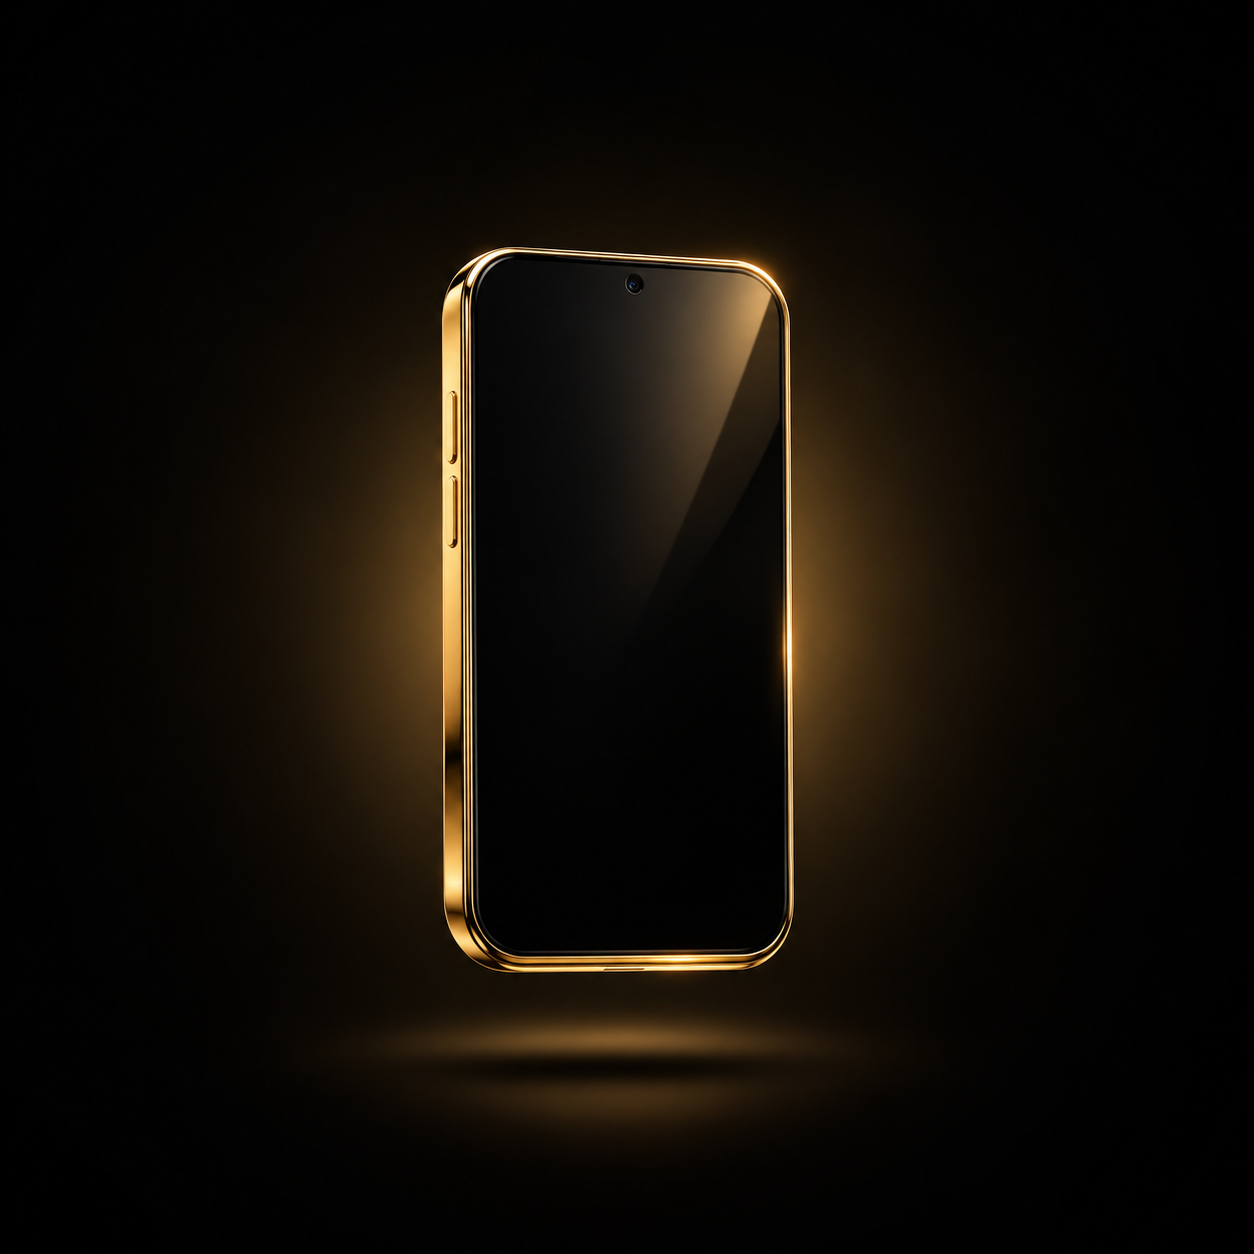
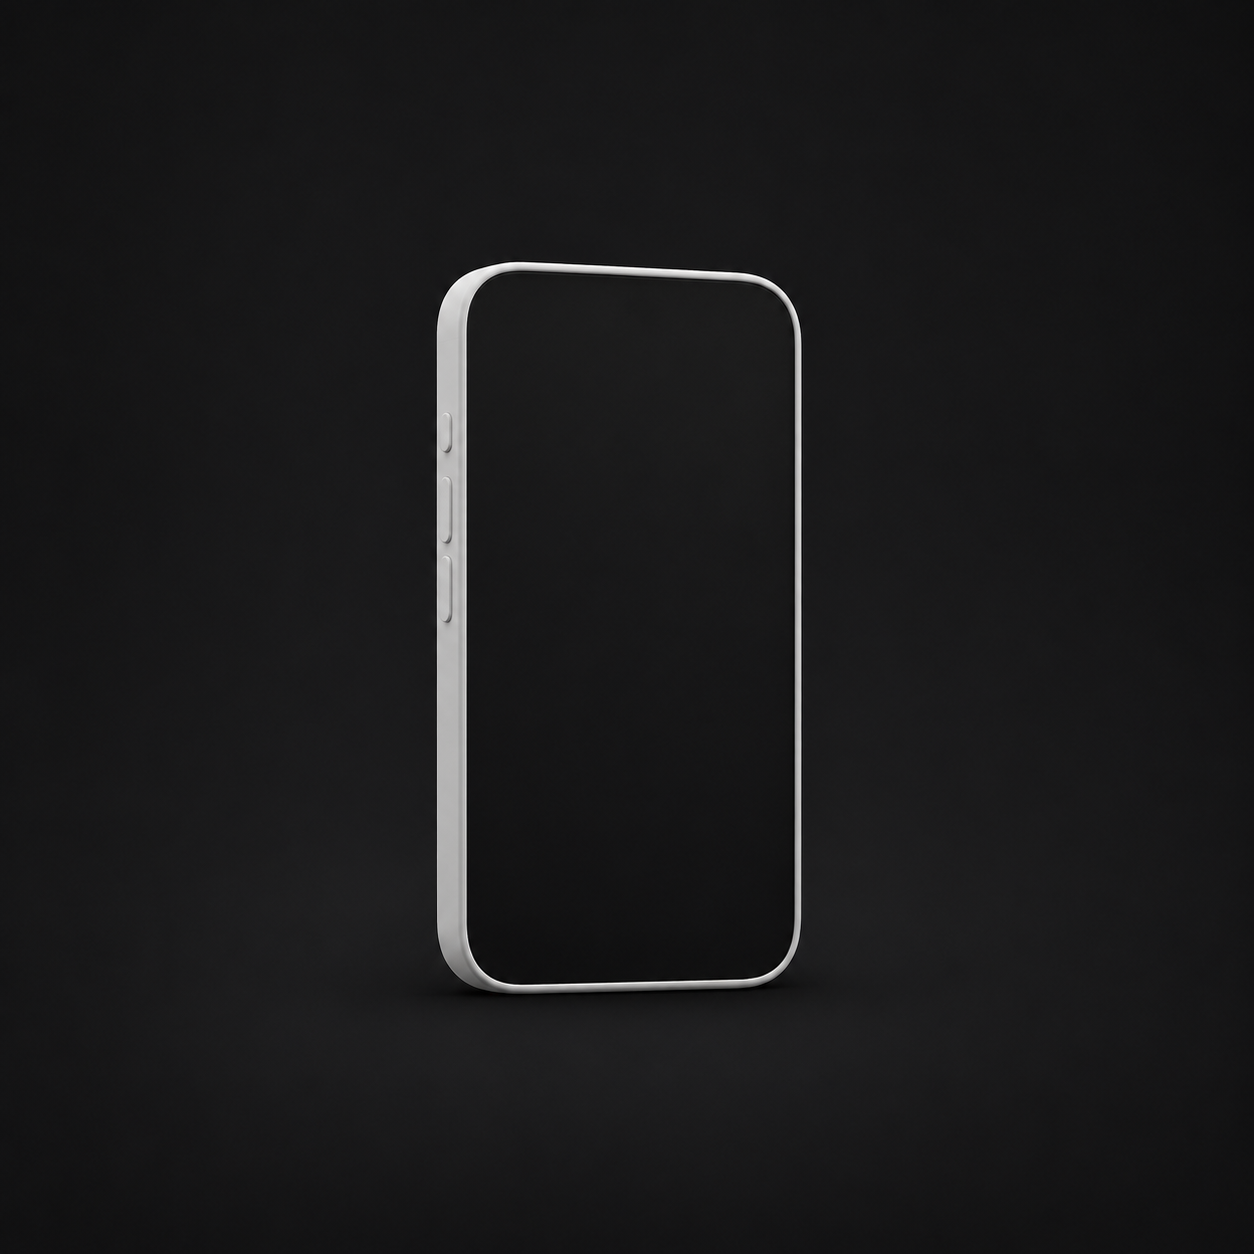
fix: capas de destaque refeitas em 3D fosco minimalista — sem dourado brilhoso
Objetos branco-gelo foscos sobre fundo grafite, no padrão preto e branco da marca.

Changed region(s): [[0.0933, 0.1866, 0.9019, 0.9019], [0.3732, 0.9019, 0.4043, 0.933]]

diff --git a/02-CONTEUDO/review-instagram.html b/02-CONTEUDO/review-instagram.html
@@ -231,7 +231,7 @@
 <div class="section">
   <div class="section-tag">03 &mdash; Destaques</div>
   <h2>A vitrine fixa do <em>perfil</em></h2>
-  <p class="section-desc">Seis destaques com capas criadas sob medida em 3D de alto padr&atilde;o: objeto dourado sobre fundo preto, mesmo estilo em todas &mdash; combinando com a coroa da marca. Nenhuma capa leva texto: o nome entra no t&iacute;tulo do pr&oacute;prio destaque, como o Instagram exibe abaixo do c&iacute;rculo. &Eacute; onde o cliente novo tira as d&uacute;vidas sozinho, a qualquer hora.</p>
+  <p class="section-desc">Seis destaques com capas criadas sob medida em 3D minimalista: objeto branco fosco sobre fundo grafite, mesmo estilo em todas &mdash; sofisticado e no padr&atilde;o preto e branco da marca. Nenhuma capa leva texto: o nome entra no t&iacute;tulo do pr&oacute;prio destaque, como o Instagram exibe abaixo do c&iacute;rculo. &Eacute; onde o cliente novo tira as d&uacute;vidas sozinho, a qualquer hora.</p>
 
   <div class="destaques-row">
     <div class="destaque-item"><a href="capas-destaques/capa-celulares.png"><div class="destaque-circ"><img src="capas-destaques/capa-celulares-thumb.jpg" alt="Capa Celulares" width="84" height="84" loading="lazy"></div><div class="destaque-nome">Celulares</div></a></div>
